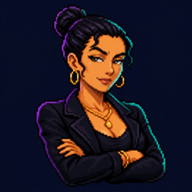
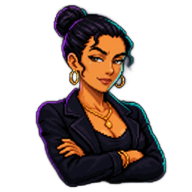
The regulars step off their own backgrounds
All twelve portrait frames are transparent cutouts now (Higgsfield
background remover, 1 credit each): every one carried its own baked
navy square, each a slightly different shade, so a row of roster tiles
read as six mismatched boxes and Ray's dark hoodie sank into his own
ground. The windows instead paint one shared token — --cabinet-hi, the
same ground the seat avatars and the stage already use — so the strip,
the stage and the table all sit the art on identical fill.

Verified: all four corners of all twelve files at alpha 0, A/B pairs
cut within 1% subject coverage of each other, every .strip__win
computes the same background, and the row reads uniform in the
screenshot. 59 tests green.

diff --git a/public/css/styles.css b/public/css/styles.css
@@ -2908,6 +2908,11 @@ ol, ul { margin: 0; padding: 0; list-style: none; }
   width: 40px;
   height: 36px;
   overflow: hidden;
+  /* The portraits are transparent cutouts now, so every window paints the
+     SAME ground — the token the seat avatars and the stage already use. The
+     baked-in navy each portrait used to carry was a slightly different shade
+     per file, and a row of tiles read as six mismatched squares. */
+  background: var(--cabinet-hi);
 }
 
 .strip__win img {
